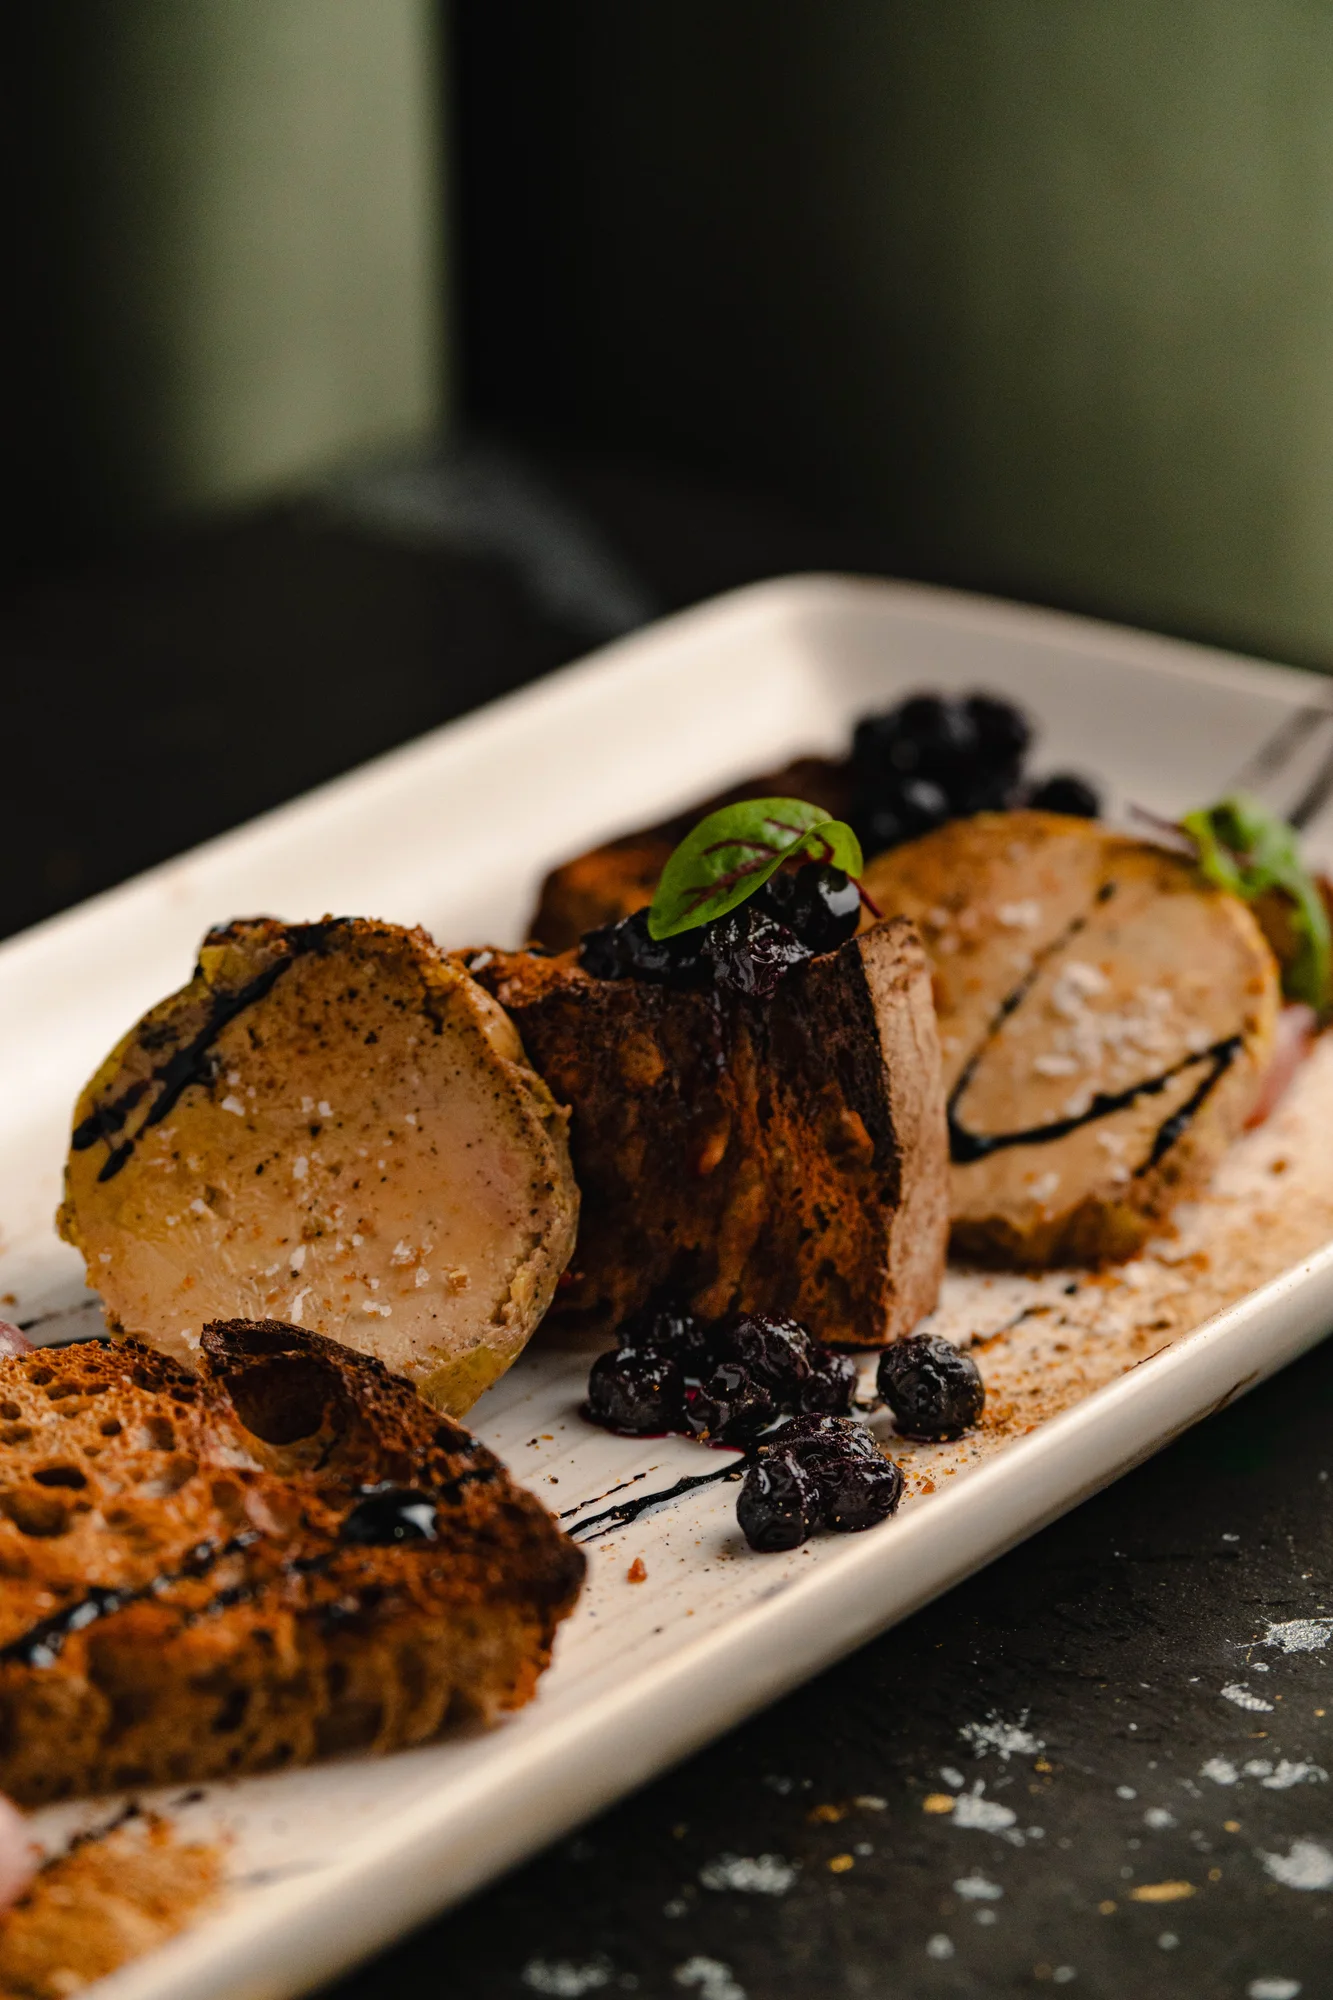
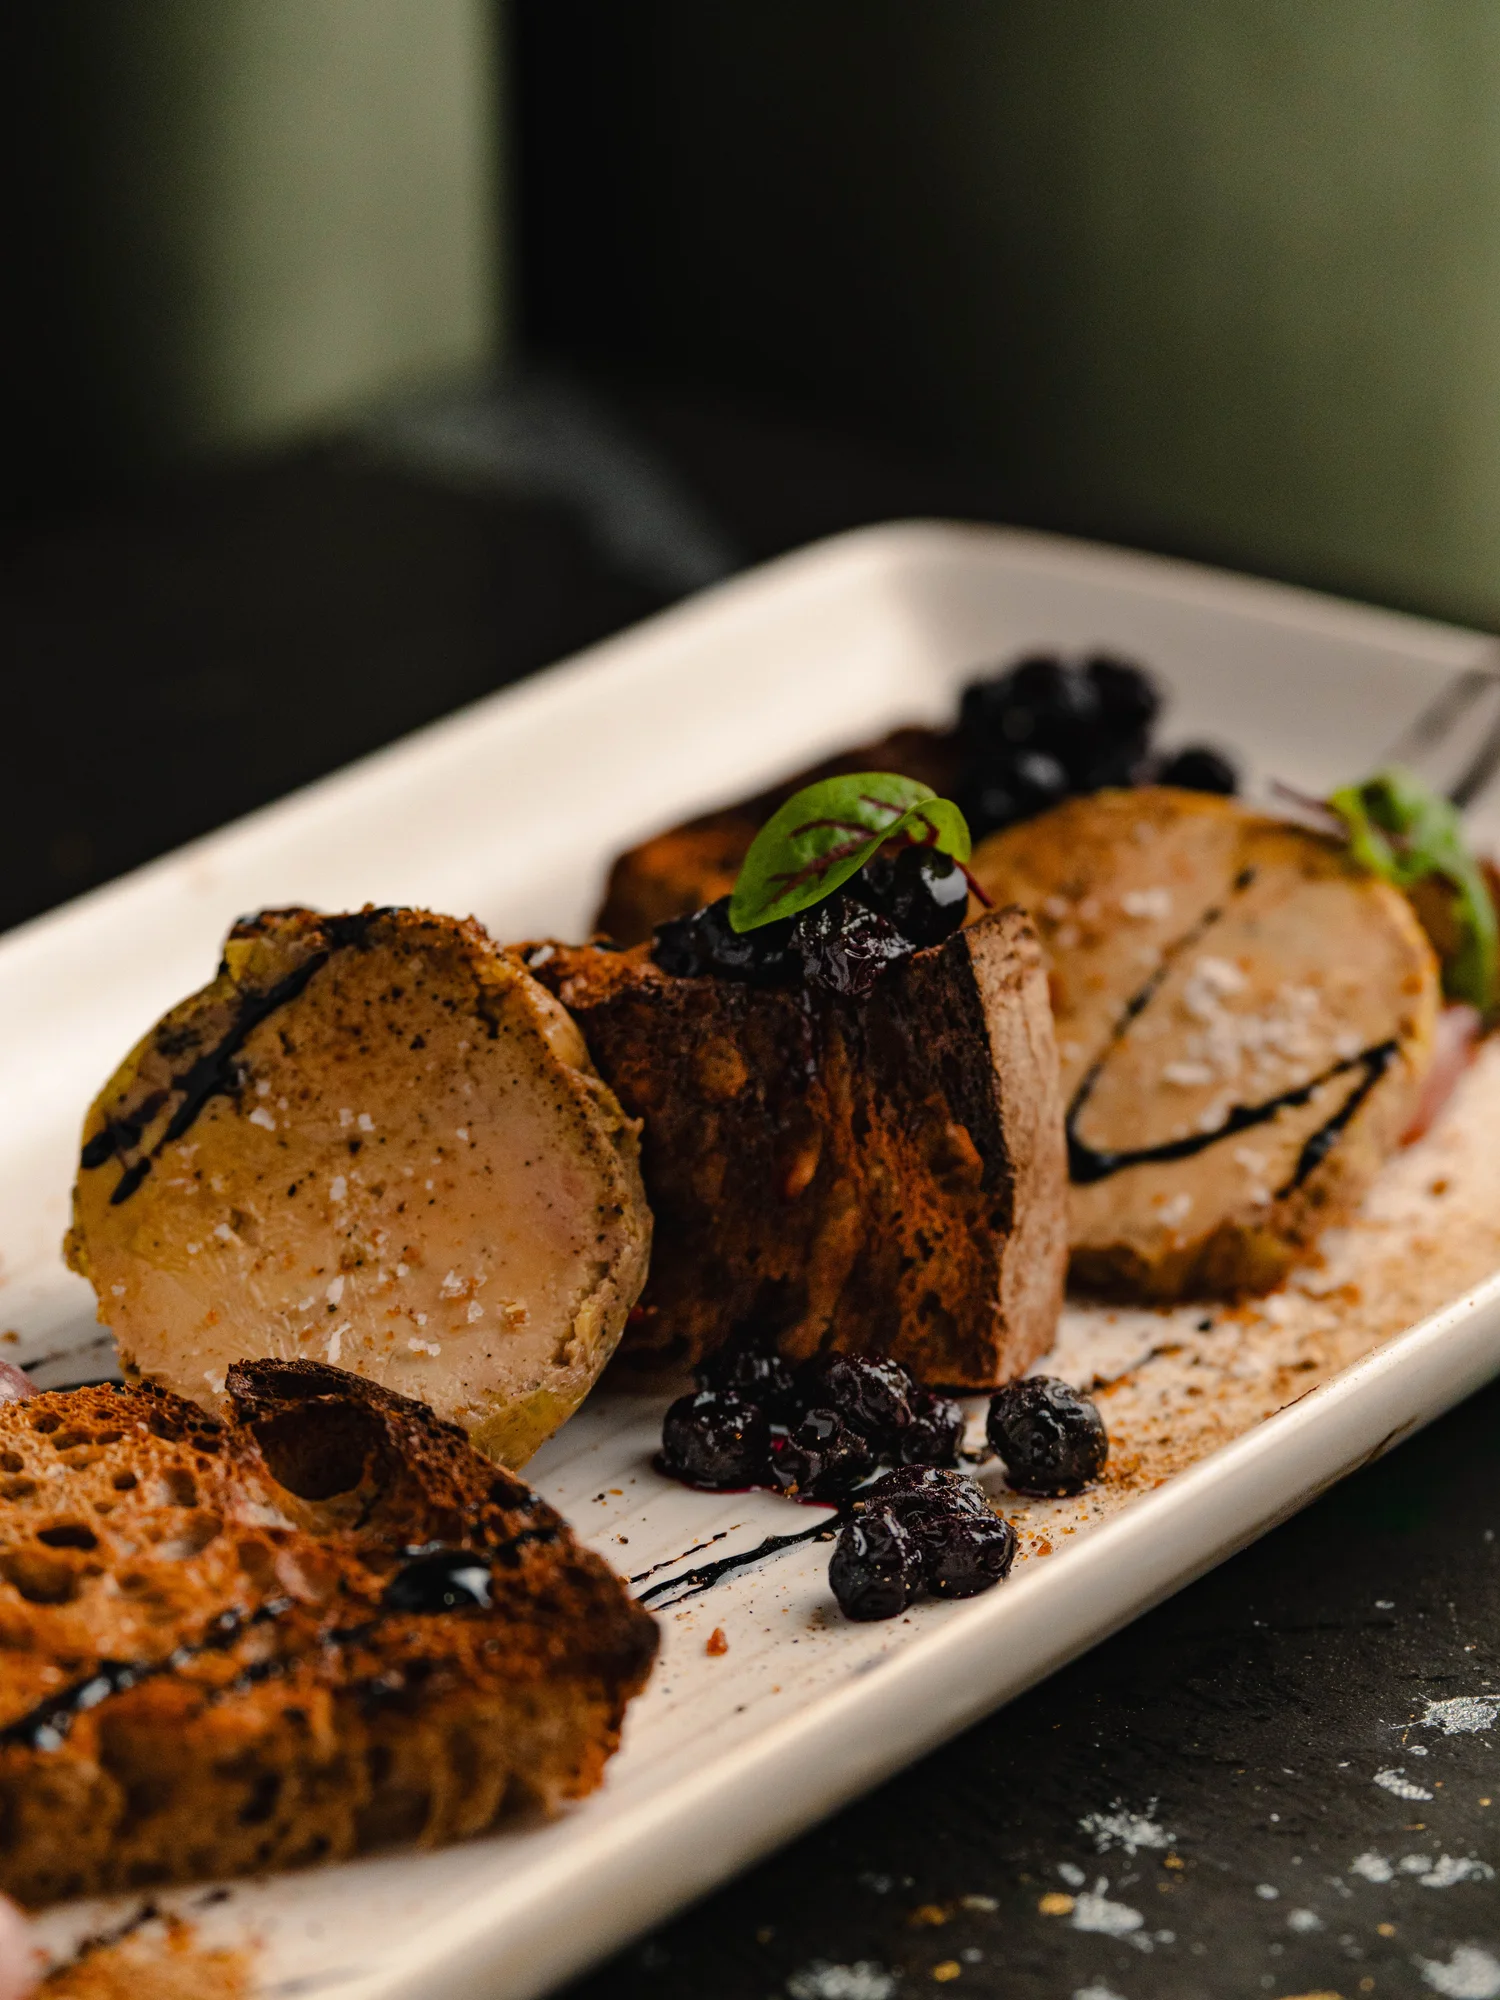
Révision Le Bosquet : photo 3 recadrée en 3:4

diff --git a/revision/bosquet-r5n2k7/index.html b/revision/bosquet-r5n2k7/index.html
@@ -25,7 +25,7 @@
     "medias": [
       {"type":"photo","src":"photos/GuillaumeRouthier_Bosquet24nov_01.webp","w":1500,"h":2000},
       {"type":"photo","src":"photos/GuillaumeRouthier_Bosquet24nov_02.webp","w":1500,"h":2000},
-      {"type":"photo","src":"photos/GuillaumeRouthier_Bosquet24nov_03.webp","w":1333,"h":2000},
+      {"type":"photo","src":"photos/GuillaumeRouthier_Bosquet24nov_03.webp","w":1500,"h":2000},
       {"type":"photo","src":"photos/GuillaumeRouthier_Bosquet24nov_04.webp","w":1500,"h":2000},
       {"type":"photo","src":"photos/GuillaumeRouthier_Bosquet24nov_05.webp","w":1500,"h":2000},
       {"type":"photo","src":"photos/GuillaumeRouthier_Bosquet24nov_06.webp","w":1500,"h":2000},
